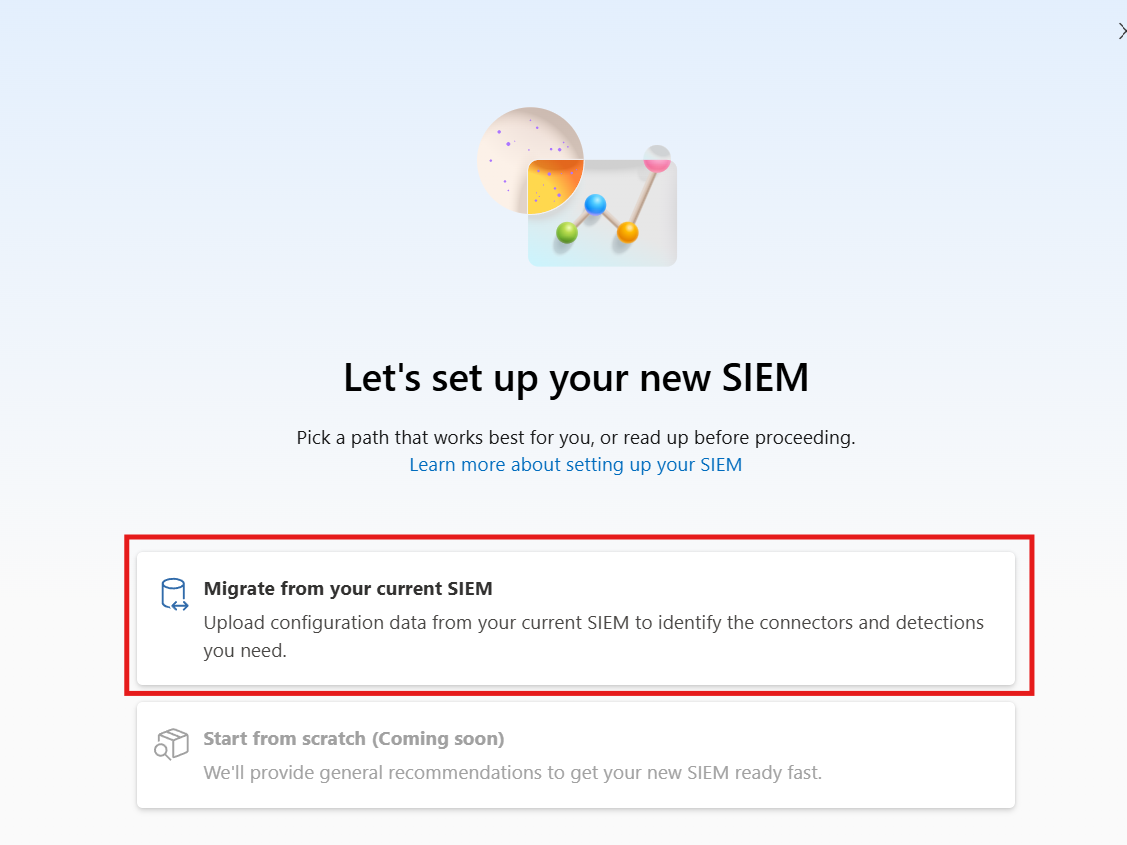
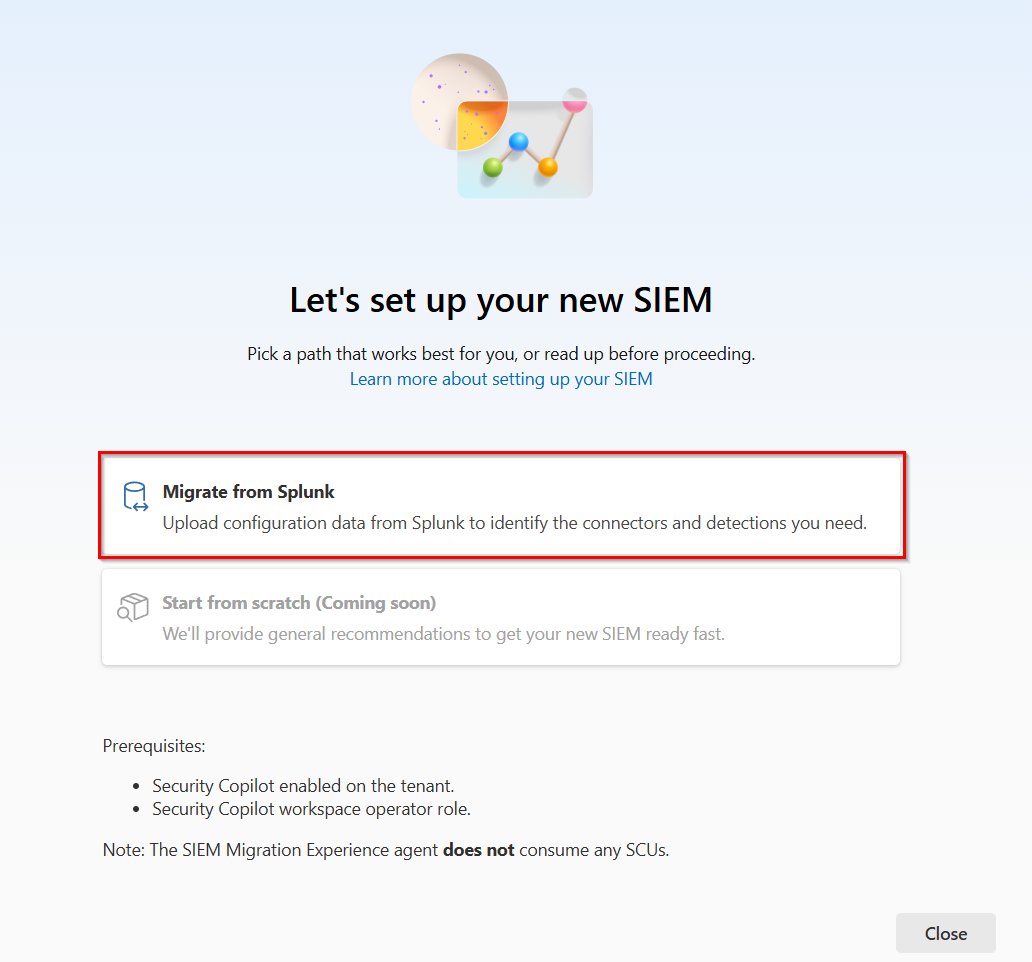
migration tool - margaret

diff --git a/articles/sentinel/siem-migration.md b/articles/sentinel/siem-migration.md
@@ -30,10 +30,10 @@ The SIEM Migration experience includes the following features:
 
 - Microsoft Sentinel in Microsoft Defender portal
 - At least Contributor permissions in the Microsoft Sentinel workspace
-- [Security Copilot](https://securitycopilot.microsoft.com/) enabled in your tenant with at least a workspace operator role assigned
+- <a href="https://securitycopilot.microsoft.com/" target="_blank">Security Copilot</a> enabled in your tenant with at least a workspace operator role assigned
 
 > [!NOTE]
-> Though you need [Security Copilot](https://securitycopilot.microsoft.com/) enabled in your tenant, it doesn't consume any SCUs so it doesn't incur additional costs.
+> Though you need [Security Copilot](https://securitycopilot.microsoft.com/) enabled in your tenant, it doesn't consume any SCUs so it doesn't incur additional costs. If you son't have copilot installed, Provision 1 SU and disable overage charges to avoid unexpected costs. User who runs migration tool needs security admin role. To ensure you don't incur any unintentional costs After you set upGo to manage workspace > usage monitoring and set SUs to zero.
 
 ## Export detection rules from your current SIEM
 
@@ -83,7 +83,7 @@ After exporting the rules,
 
     :::image type="content" source="./media/siem-migration/confirm-siem.png" alt-text="Screenshot of the confirmation screen showing the number of data sources and detection rules.":::
 
-1. When the correct file is uploaded, select **Start analyzing**. The migration tool maps the detection rules to Microsoft Sentinel data sources and detection rules. If there are no recommendations in the workspace, recommendations will be created.
+1. When the correct file is uploaded, select **Start analyzing**. The migration tool maps the detection rules to Microsoft Sentinel data sources and detection rules. If there are no recommendations in the workspace, recommendations are created.
 
     :::image type="content" source="./media/siem-migration/getting-ready.png" alt-text="Screenshot of the migration tool getting ready to analyze the rules.":::
 
@@ -97,7 +97,7 @@ After exporting the rules,
     :::image type="content" source="./media/siem-migration/recommendations.png" alt-text="A screenshot of recommendations generated by the migration tool.":::
 
     The analysis is complete when all three check marks are green. If the three checkmarks are green but there are no recommendations, it means that no matches were found for your rules.
-    When analysis is complete, go to **SIEM Setup**to see the recommendations. You can also download a detailed report of the analysis. The report contains a detailed analysis of recommended migration jobs, including Splunk rules that we didn't find good solution for, not detected, not applicable etc.
+    When analysis is complete, go to **SIEM Setup** to see the recommendations. You can also download a detailed report of the analysis. The report contains a detailed analysis of recommended migration jobs, including Splunk rules that we didn't find good solution for, not detected, not applicable, etc.
 
 1. Select one of the recommendation cards to view the data sources and rules mapped.
 
@@ -114,10 +114,10 @@ After exporting the rules,
     - Recommendations from the SIEM migration tool. (2)
     - The current Splunk detection rule from your uploaded file. (3)
     - The status of the detection rule in Microsoft Sentinel. (4) The status can be:
-        - *Enabled*: The detection rule is created from the rule template, enabled and active (from a previous action)
+        - *Enabled*: The detection rule is created from the rule template, enabled, and active (from a previous action)
         - *Disabled*: The detection rule is installed from the Content Hub but not enabled in the Sentinel workspace
         - *Not in use*: The detection rule was installed from Content Hub and is available as a template to be enabled
-        - *Not installed*: The detection rule wasn't installed from the the Content Hub
+        - *Not installed*: The detection rule wasn't installed from the Content Hub
     - The required connectors that need to be configured to bring the logs required for the recommended detection rule. (5) If a required connector isn't available, there's a side panel with a wizard to install it from the Content Hub. If all required connectors are connected, a green check mark appears.
 
     :::image type="content" source="./media/siem-migration/detection.png" alt-text="Screenshot of Microsoft Sentinel detection rules matched to Splunk or QRadar rules.":::
@@ -146,7 +146,7 @@ If the data connector isn't installed and configured to stream logs, *Enable det
 
 - You can enable several rules at once by selecting the check boxes next to each rule you want to enable and then selecting **Enable selected detections** at the top of the page.
 
-    :::image type="content" source="./media/siem-migration/enable-multiple-rules.png" alt-text="Screenshot of the the list of rules in the detection tab with checkboxes next to them.":::
+    :::image type="content" source="./media/siem-migration/enable-multiple-rules.png" alt-text="Screenshot of the list of rules in the detection tab with checkboxes next to them.":::
 
 The SIEM migration tool doesn't explicitly install any connectors or enable detection rules.
 
